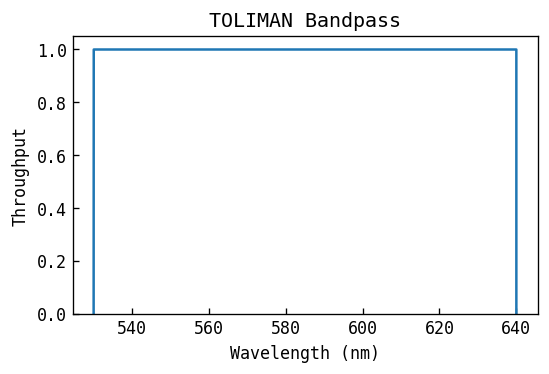
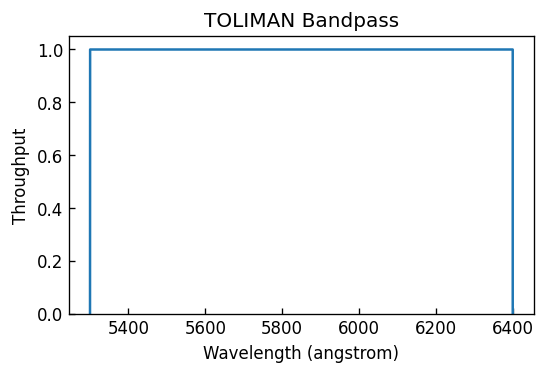
flux fix

diff --git a/photon_count.md b/photon_count.md
@@ -2,7 +2,7 @@
 
 In this notebook we will use the [PySynPhot](https://pysynphot.readthedocs.io/en/latest/index.html) package to simulate the spectra of the two (brightest) stars in the Alpha Centauri system through the TOLIMAN bandpass. We will then calculate the photon count rate of the two stars.
 
-We will use the PySynPhot built-in Phoenix models for the two stars, which are set of stellar atmosphere models that can be used to generate synthetic spectra. We use the known magnitudes of the two stars (taken from [SIMBAD](http://simbad.cds.unistra.fr/simbad/)) to renormalise the spectra, and then restrict this to the TOLIMAN bandpass of 595nm-695nm. Finally we integrate the resultant spectrum to calculate the photon count rate.
+We will use the PySynPhot built-in Phoenix models for the two stars, which are set of stellar atmosphere models that can be used to generate synthetic spectra. We use the known magnitudes of the two stars (taken from [SIMBAD](http://simbad.cds.unistra.fr/simbad/)) to renormalise the spectra, and then restrict this to the TOLIMAN bandpass of 530nm-640nm. Finally we integrate the resultant spectrum to calculate the photon count rate.
 
 ## Setup
 First we import the necessary packages and set the parameters of the two stars.
@@ -15,7 +15,7 @@ import pysynphot as S
 import os
 
 %matplotlib inline
-plt.rcParams["font.family"] = "monospace"
+# plt.rcParams["font.family"] = "monospace"
 plt.rcParams['figure.dpi'] = 120
 plt.rcParams['xtick.direction'] = 'in'
 plt.rcParams['ytick.direction'] = 'in'
@@ -30,15 +30,16 @@ ALPHA_CEN_B_METALICITY = 0.23
 ALPHA_CEN_B_SURFACE_GRAV = 4.37  # log(g)
 ALPHA_CEN_B_MAGNITUDE = 1.33  # vega magnitude
 
-FILTER_MIN_WAVELENGTH = 530.  # nm
-FILTER_MAX_WAVELENGTH = 640.  # nm
+FILTER_MIN_WAVELENGTH = 5300.  # nm
+FILTER_MAX_WAVELENGTH = 6400.  # nm
 
-os.chdir('..'); os.chdir('data')  # changing working directory so pysynphot can find the data
+# os.chdir('..'); os.chdir('data')  # changing working directory so pysynphot can find the data
+os.chdir("/Users/mcha5804/data/pysynphot/")
 ```
 
-    /Users/mcha5804/Library/CloudStorage/OneDrive-TheUniversityofSydney(Students)/PyCharm/toliman-phd/venv-fmpb/lib/python3.10/site-packages/pysynphot/locations.py:46: UserWarning: PYSYN_CDBS is undefined; functionality will be SEVERELY crippled.
+    /Users/mcha5804/miniconda3/envs/pysynphot/lib/python3.10/site-packages/pysynphot/locations.py:46: UserWarning: PYSYN_CDBS is undefined; functionality will be SEVERELY crippled.
       warnings.warn("PYSYN_CDBS is undefined; functionality will be SEVERELY "
-    /Users/mcha5804/Library/CloudStorage/OneDrive-TheUniversityofSydney(Students)/PyCharm/toliman-phd/venv-fmpb/lib/python3.10/site-packages/pysynphot/locations.py:345: UserWarning: Extinction files not found in extinction
+    /Users/mcha5804/miniconda3/envs/pysynphot/lib/python3.10/site-packages/pysynphot/locations.py:345: UserWarning: Extinction files not found in extinction
       warnings.warn('Extinction files not found in %s' % (extdir, ))
 
 
@@ -54,24 +55,28 @@ Do the same with the `grid/` directory. I've discovered only `grid/phoenix/phoen
 
 We also have to set the area of the telescope -- I have used the TOLIMAN primary area of 12.5cm diameter and 3.2cm diameter hole.
 
+2025 EDIT:
+
+
 
 ```python
-primary = np.pi*(12.5**2 - 3.2**2)
+primary = np.pi * (12.5**2 - 3.2**2)
 
-S.setref(graphtable='mtab/57g1733im_tmg.fits',
-         comptable='mtab/6cf2109gm_tmc.fits',
-         thermtable='mtab/3241637sm_tmt.fits',
-         area=primary, # not sure that this actually does anyting tbh
-         )
+S.setref(
+    graphtable="mtab/83816517m_tmg.fits",
+    comptable="mtab/8a31932bm_tmc.fits",
+    thermtable="mtab/3241637sm_tmt.fits",
+    area=primary,  # not sure that this actually does anyting tbh
+)
 
-print(f'TOLIMAN Primary Area: {primary:.2f} square cm.')
+print(f"TOLIMAN Primary Area: {primary:.2f} square cm.")
 ```
 
     TOLIMAN Primary Area: 458.70 square cm.
 
 
 ## Generating Spectra
-Now we can generate the spectra of the two stars using the [Phoenix](https://pysynphot.readthedocs.io/en/stable/appendixa.html#pysynphot-appendixa-phoenix) models. We feed the models the surface temperature, metallicity and surface gravity of the stars, and then renormalise the spectra to the known magnitudes of the stars in the V band. We then convert the flux to units of photons $s^{-1}cm^{-2}\AA^{-1}$ and the wavelengths to $nm$. Using the `fe_h` query in [SIMBAD](http://simbad.cds.unistra.fr/simbad/) can get you $\text{T}_\text{{eff}}$, $\text{\log{g}}$ and $\text{Fe}_\text{H}$ for different stars.
+Now we can generate the spectra of the two stars using the [Phoenix](https://pysynphot.readthedocs.io/en/stable/appendixa.html#pysynphot-appendixa-phoenix) models. We feed the models the surface temperature, metallicity and surface gravity of the stars, and then renormalise the spectra to the known magnitudes of the stars in the V band. We then convert the flux to units of photons $s^{-1}cm^{-2}\AA^{-1}$ and the wavelengths to $nm$. Using the `fe_h` query in [SIMBAD](http://simbad.cds.unistra.fr/simbad/) can get you $\text{T}_\text{{eff}}$, $\log{g}$ and $\text{Fe}_\text{H}$ for different stars.
 
 
 ```python
@@ -90,15 +95,15 @@ B_sp = S.Icat(
 )
 
 # Renormalising to respective magnitudes
-VBand = S.ObsBandpass('v')
-A_sp = A_sp.renorm(RNval=ALPHA_CEN_A_MAGNITUDE, RNUnits='vegamag', band=VBand)
-B_sp = B_sp.renorm(RNval=ALPHA_CEN_B_MAGNITUDE, RNUnits='vegamag', band=VBand)
+VBand = S.ObsBandpass("v")
+A_sp = A_sp.renorm(RNval=ALPHA_CEN_A_MAGNITUDE, RNUnits="vegamag", band=VBand)
+B_sp = B_sp.renorm(RNval=ALPHA_CEN_B_MAGNITUDE, RNUnits="vegamag", band=VBand)
 
 # Converting units
-A_sp.convert('nm')
-A_sp.convert('Photlam')
-B_sp.convert('nm')
-B_sp.convert('Photlam')
+# A_sp.convert("nm")
+A_sp.convert("Photlam")
+# B_sp.convert("nm")
+B_sp.convert("Photlam")
 
 sum_sp = A_sp.flux + B_sp.flux
 ```
@@ -107,20 +112,31 @@ We can now plot the spectra of the two stars and the sum of the two spectra, as 
 
 
 ```python
-fig, ax = plt.subplots(figsize=(8,5))
-ax.plot([FILTER_MIN_WAVELENGTH,FILTER_MIN_WAVELENGTH],[0,sum_sp.max()*1.1], 'r--', alpha=.5)
-ax.plot([FILTER_MAX_WAVELENGTH,FILTER_MAX_WAVELENGTH],[0,sum_sp.max()*1.1], 'r--', alpha=.5)
-ax.plot(A_sp.wave, A_sp.flux, label =r'$\alpha$ Cen A', alpha=.5, lw=.4)
-ax.plot(B_sp.wave, B_sp.flux, label =r'$\alpha$ Cen B', alpha=.5, lw=.4)
-ax.plot(A_sp.wave, sum_sp, label ='Sum', c ='k', lw=.4)
-ax.set(title =r'$\alpha$ Cen Spectrum',
-        xlabel = f'Wavelength ({A_sp.waveunits})',
-        ylabel = r'Flux (photons $s^{-1}cm^{-2}\AA^{-1}$)',
-        xlim = (400, 900),
-        xticks = np.linspace(400, 900, 11),
-        ylim = (0, sum_sp.max() * 1.1),
-        )
-ax.grid(alpha = 0.5)
+fig, ax = plt.subplots(figsize=(8, 5))
+ax.plot(
+    [FILTER_MIN_WAVELENGTH, FILTER_MIN_WAVELENGTH],
+    [0, sum_sp.max() * 1.1],
+    "r--",
+    alpha=0.5,
+)
+ax.plot(
+    [FILTER_MAX_WAVELENGTH, FILTER_MAX_WAVELENGTH],
+    [0, sum_sp.max() * 1.1],
+    "r--",
+    alpha=0.5,
+)
+ax.plot(A_sp.wave, A_sp.flux, label=r"$\alpha$ Cen A", alpha=0.5, lw=0.4)
+ax.plot(B_sp.wave, B_sp.flux, label=r"$\alpha$ Cen B", alpha=0.5, lw=0.4)
+ax.plot(A_sp.wave, sum_sp, label="Sum", c="k", lw=0.4)
+ax.set(
+    title=r"$\alpha$ Cen Spectrum",
+    xlabel=f"Wavelength ({A_sp.waveunits})",
+    ylabel=r"Flux (photons $s^{-1}cm^{-2}\AA^{-1}$)",
+    xlim=(4000, 9000),
+    xticks=np.linspace(4000, 9000, 11),
+    ylim=(0, sum_sp.max() * 1.1),
+)
+ax.grid(alpha=0.5)
 ax.legend()
 plt.show()
 ```
@@ -137,19 +153,19 @@ PySynPhot also has a range of other built-in bandpass filters, which can be foun
 
 
 ```python
-# converting to angstrom for pysynphot
-centre = 10 * (FILTER_MIN_WAVELENGTH + FILTER_MAX_WAVELENGTH)/2
-bandwidth = 10 * (FILTER_MAX_WAVELENGTH - FILTER_MIN_WAVELENGTH)
+# this is in nanometers
+centre = (FILTER_MIN_WAVELENGTH + FILTER_MAX_WAVELENGTH) / 2
+bandwidth = FILTER_MAX_WAVELENGTH - FILTER_MIN_WAVELENGTH
 
-bandpass = S.Box(centre, bandwidth) # add efficiency factor here
-bandpass.convert('nm')
+# must specify waveunits here because it will assume angstrom otherwise
+bandpass = S.Box(centre, bandwidth, waveunits="angstrom")  # add efficiency factor here
 
-plt.figure(figsize=(5,3))
+plt.figure(figsize=(5, 3))
 plt.plot(bandpass.wave, bandpass.throughput)
 plt.ylim(0, 1.05)
-plt.xlabel(f'Wavelength ({bandpass.waveunits})')
-plt.ylabel('Throughput')
-plt.title('TOLIMAN Bandpass')
+plt.xlabel(f"Wavelength ({bandpass.waveunits})")
+plt.ylabel("Throughput")
+plt.title("TOLIMAN Bandpass")
 plt.show()
 ```
 
@@ -169,26 +185,27 @@ B_obs = S.Observation(B_sp, bandpass)
 sum_obs = A_obs.flux + B_obs.flux
 ```
 
-    (<pysynphot.spectrum.Box object at 0x117733a00>) does not have a defined binset in the wavecat table. The waveset of the spectrum will be used instead.
-    (<pysynphot.spectrum.Box object at 0x117733a00>) does not have a defined binset in the wavecat table. The waveset of the spectrum will be used instead.
+    (<pysynphot.spectrum.Box object at 0x11b5b3580>) does not have a defined binset in the wavecat table. The waveset of the spectrum will be used instead.
+    (<pysynphot.spectrum.Box object at 0x11b5b3580>) does not have a defined binset in the wavecat table. The waveset of the spectrum will be used instead.
 
 
 Plotting as a final sanity check.
 
 
 ```python
-fig, ax = plt.subplots(figsize=(8,5))
-ax.plot(A_obs.wave, A_obs.flux, label=r'$\alpha$ Cen A', alpha=.8, lw=.4)
-ax.plot(B_obs.wave, B_obs.flux, label=r'$\alpha$ Cen B', alpha=.8, lw=.4)
-ax.plot(A_obs.wave, sum_obs, label='Sum', c='k', lw=.4)
-ax.set(title = r'$\alpha$ Cen spectrum through TOLIMAN bandpass',
-        xlabel = f'Wavelength ({A_sp.waveunits})',
-        ylabel = r'Flux (photons $s^{-1}cm^{-2}\AA^{-1}$)',
-        xlim = (400, 900),
-        xticks = np.linspace(400, 900, 11),
-        ylim = (0, sum_obs.max() * 1.1),
-        )
-ax.grid(alpha = 0.5)
+fig, ax = plt.subplots(figsize=(8, 5))
+ax.plot(A_obs.wave, A_obs.flux, label=r"$\alpha$ Cen A", alpha=0.8, lw=0.4)
+ax.plot(B_obs.wave, B_obs.flux, label=r"$\alpha$ Cen B", alpha=0.8, lw=0.4)
+ax.plot(A_obs.wave, sum_obs, label="Sum", c="k", lw=0.4)
+ax.set(
+    title=r"$\alpha$ Cen spectrum through TOLIMAN bandpass",
+    xlabel=f"Wavelength ({A_sp.waveunits})",
+    ylabel=r"Flux (photons $s^{-1}cm^{-2}\AA^{-1}$)",
+    xlim=(4000, 9000),
+    xticks=np.linspace(4000, 9000, 11),
+    ylim=(0, sum_obs.max() * 1.1),
+)
+ax.grid(alpha=0.5)
 ax.legend()
 plt.show()
 ```
@@ -205,17 +222,33 @@ Looks good! Now we can calculate the count rate using the `integrate` method of 
 
 ```python
 countrate = A_obs.integrate() + B_obs.integrate()
-print(f'AlfCen A: {A_obs.integrate():.3e} photons/s/cm/cm; {A_obs.integrate()*primary:.3e} photons/s')
-print(f'AlfCen B: {B_obs.integrate():.3e} photons/s/cm/cm; {B_obs.integrate()*primary:.3e} photons/s')
-print(f'Total count rate: {countrate:.3e} photons/s/cm/cm; {countrate*primary:.3e} photons/s')
+print(
+    f"Alpha Cen A: {A_obs.integrate():.3e} photons/s/cm/cm; {A_obs.integrate()*primary:.3e} photons/s"
+)
+print(
+    f"Alpha Cen B: {B_obs.integrate():.3e} photons/s/cm/cm; {B_obs.integrate()*primary:.3e} photons/s"
+)
+print(
+    f"Total count rate: {countrate:.3e} photons/s/cm/cm; {countrate*primary:.3e} photons/s"
+)
 ```
 
-    AlfCen A: 1.128e+05 photons/s/cm/cm; 5.176e+07 photons/s
-    AlfCen B: 3.524e+04 photons/s/cm/cm; 1.616e+07 photons/s
-    Total count rate: 1.481e+05 photons/s/cm/cm; 6.793e+07 photons/s
+    Alpha Cen A: 1.128e+06 photons/s/cm/cm; 5.176e+08 photons/s
+    Alpha Cen B: 3.524e+05 photons/s/cm/cm; 1.616e+08 photons/s
+    Total count rate: 1.481e+06 photons/s/cm/cm; 6.793e+08 photons/s
 
+
+Great. If we know the TOLIMAN exposure time is 0.1 seconds, then we can calculate the number of photons present in a single frame.
 
 
 ```python
+exp_time = 0.1  # seconds
 
+tot_phot = countrate * primary * exp_time
+print(f"Total photons in {exp_time} seconds: {tot_phot:.3e} photons")
+print(f"Log10 of total photons: {np.log10(tot_phot):.3f}")
 ```
+
+    Total photons in 0.1 seconds: 6.793e+07 photons
+    Log10 of total photons: 7.832
+
